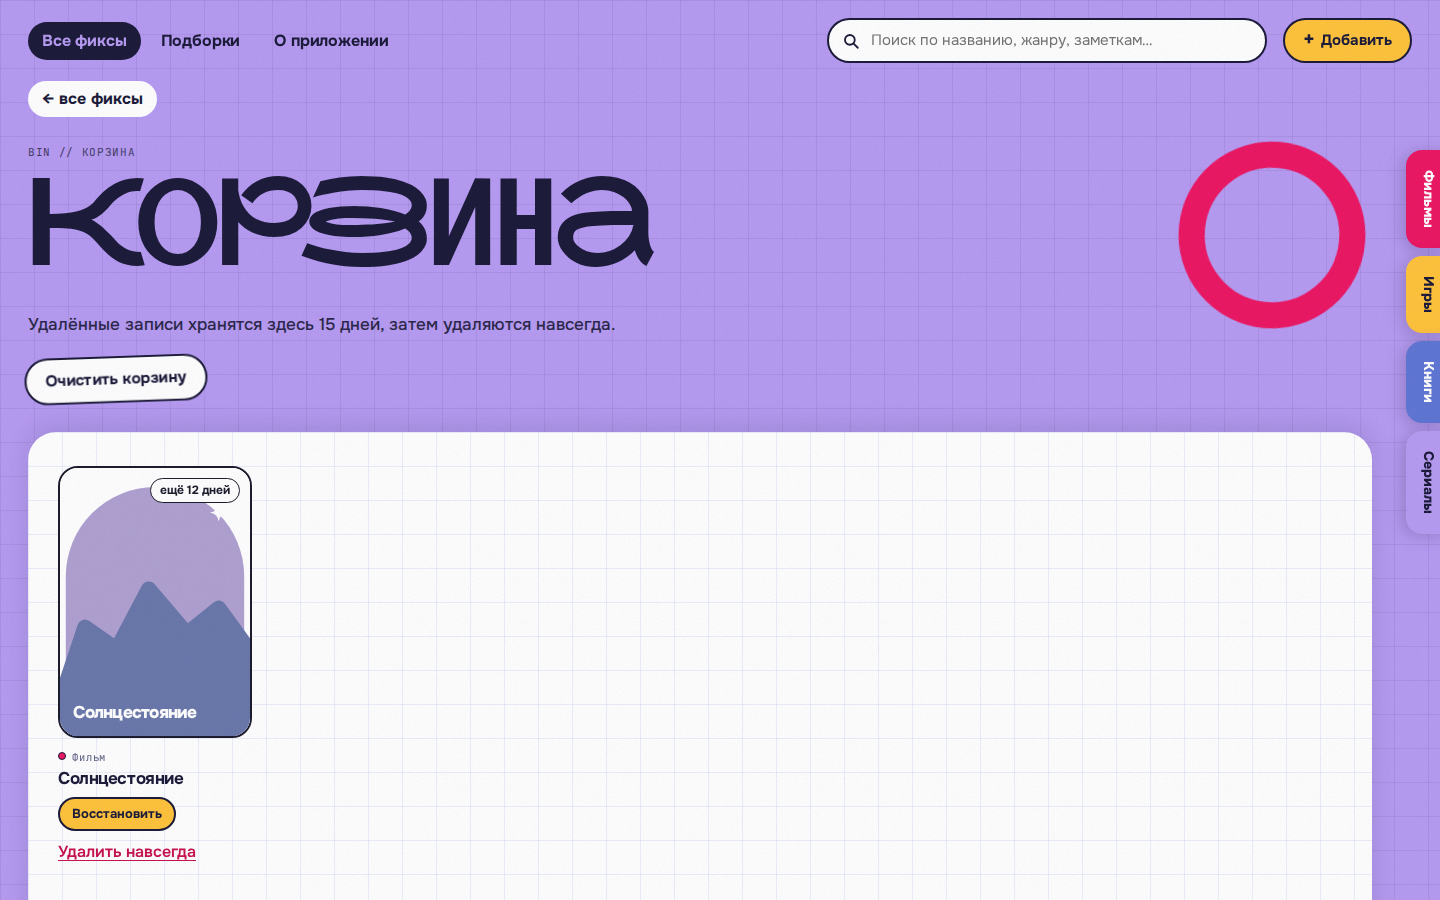
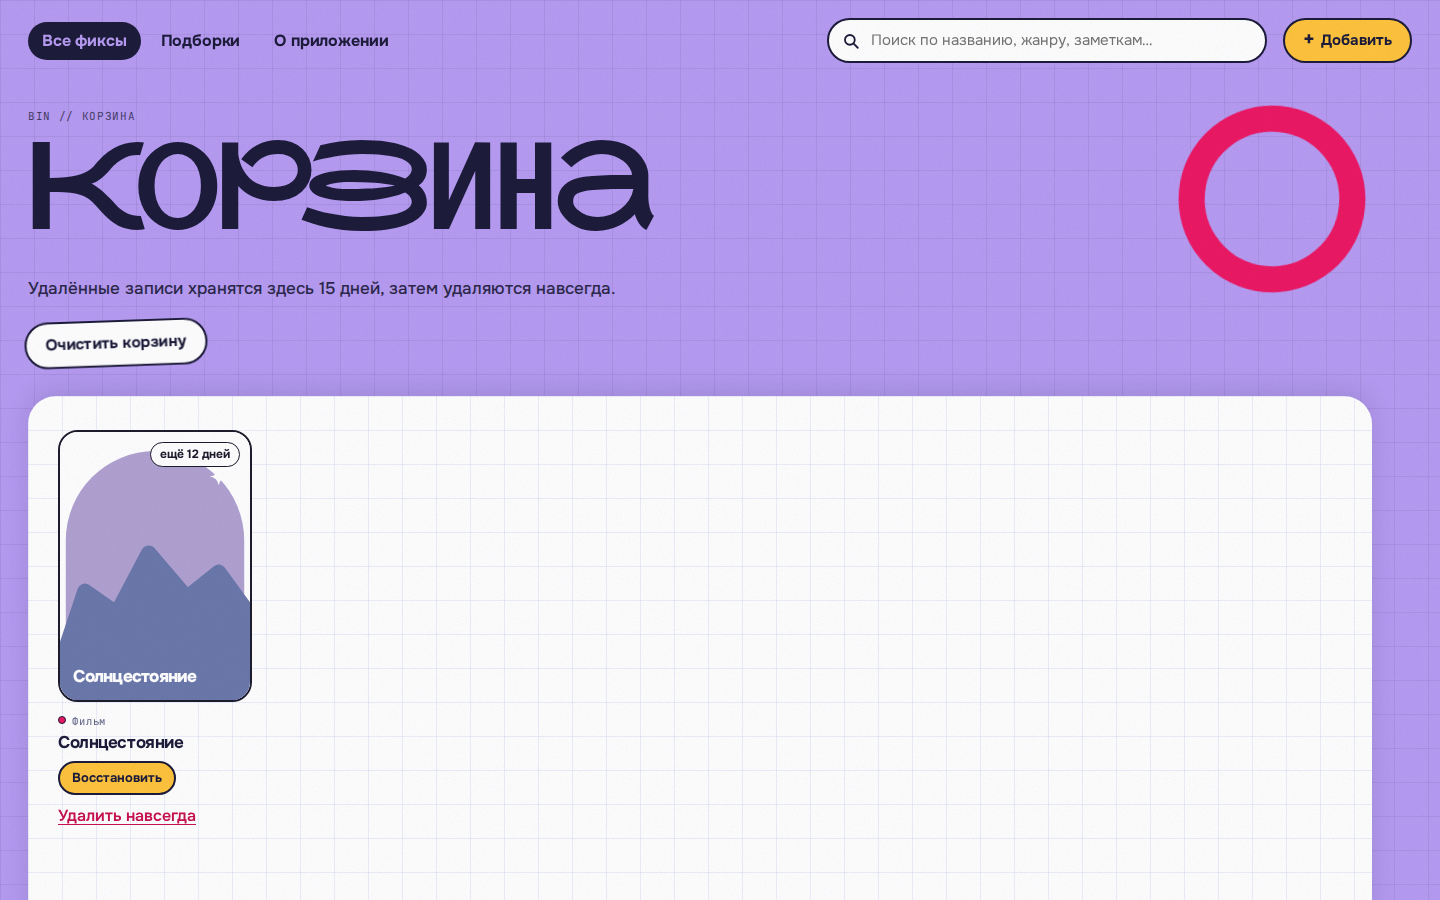
Навигация в два уровня: разделы в шапке, папки справа
Язычки справа показывают все четыре папки, язычок открытой выдвинут.
Кнопки «← все фиксы» и «← все подборки» убраны — их роль у шапки;
повторный клик по разделу в шапке возвращает к его началу. Язычки
папок остались только на страницах папок, на телефоне — рядом под шапкой.

Claude-Session: https://claude.ai/code/session_01PDBpM1BjsubR5k6YmRK1Ea

Changed region(s): [[0.0, 0.0622, 1.0, 0.9644], [0.9688, 0.4978, 1.0, 0.56]]

diff --git a/js/category.js b/js/category.js
@@ -18,10 +18,14 @@ window.Diary = window.Diary || {};
     return '--c:' + t.c + ';--fi:' + t.fi + ';--m:' + t.m;
   }
 
-  function sideTabsHtml(except) {
-    return '<nav class="side-tabs" aria-label="Другие папки">' +
-      Diary.CATEGORIES.filter(function (c) { return c !== except; }).map(function (c) {
-        return '<a class="side-tab" href="#/' + c + '" style="' + themeVars(c) + '">' + esc(Diary.CATEGORY_LABEL_PLURAL[c]) + '</a>';
+  // Язычки папок справа — навигация внутри «Всех фиксов». Показываем все четыре,
+  // язычок открытой папки выдвинут и сливается с фоном страницы.
+  function sideTabsHtml(current) {
+    return '<nav class="side-tabs" aria-label="Папки">' +
+      Diary.CATEGORIES.map(function (c) {
+        var on = c === current;
+        return '<a class="side-tab' + (on ? ' is-current' : '') + '" href="#/' + c + '" style="' + themeVars(c) + '"' +
+          (on ? ' aria-current="page"' : '') + '>' + esc(Diary.CATEGORY_LABEL_PLURAL[c]) + '</a>';
       }).join('') +
       '</nav>';
   }
@@ -44,10 +48,10 @@ window.Diary = window.Diary || {};
     }).join('');
     var sorts = [['date_desc', 'Сначала новые'], ['date_asc', 'Сначала старые'], ['rating_desc', 'По оценке'], ['title_asc', 'По названию А–Я']];
 
-    app.innerHTML = '' +
+    // Язычки идут первыми: на компьютере они закреплены справа, на телефоне — ряд под шапкой.
+    app.innerHTML = sideTabsHtml(cat) +
       '<section class="coll" style="' + themeVars(cat) + '">' +
       '<div class="coll-head">' +
-      '<a class="back" href="#/">← все фиксы</a>' +
       '<div class="coll-hero">' +
       '<div>' +
       '<div class="mono">' + t.code + '_0' + (Diary.CATEGORIES.indexOf(cat) + 1) + ' // папка</div>' +
@@ -71,8 +75,7 @@ window.Diary = window.Diary || {};
       '</div>' +
       '<nav class="status-tabs" data-status-tabs aria-label="Статус"></nav>' +
       '<div class="sheet"><div class="grid" data-grid></div></div>' +
-      '</section>' +
-      sideTabsHtml(cat);
+      '</section>';
 
     mounted = cat;
     update(app);

diff --git a/js/collections.js b/js/collections.js
@@ -40,7 +40,6 @@ window.Diary = window.Diary || {};
   function headHtml(opts) {
     return '' +
       '<div class="coll-head">' +
-      opts.back +
       '<div class="coll-hero">' +
       '<div>' +
       '<div class="mono">' + opts.code + '</div>' +
@@ -84,7 +83,6 @@ window.Diary = window.Diary || {};
     app.innerHTML = '' +
       '<section class="coll" style="' + pageVars() + '">' +
       headHtml({
-        back: '<a class="back" href="#/">← все фиксы</a>',
         code: 'SET_00 // подборки',
         title: 'Подборки',
         sub: collections.length + ' ' + utils.plural(collections.length, ['подборка', 'подборки', 'подборок']) + ' · записи из любых папок',
@@ -95,8 +93,7 @@ window.Diary = window.Diary || {};
           '</form>'
       }) +
       '<div class="sheet sheet--flat">' + body + '</div>' +
-      '</section>' +
-      Diary.category.sideTabsHtml(null);
+      '</section>';
 
     if (formOpen) app.querySelector('[data-col-form] input').focus();
   }
@@ -135,7 +132,6 @@ window.Diary = window.Diary || {};
     app.innerHTML = '' +
       '<section class="coll" style="' + pageVars() + '">' +
       headHtml({
-        back: '<button type="button" class="back" data-col-back>← все подборки</button>',
         code: 'SET // подборка',
         title: col.name,
         sub: countText(entries.length),
@@ -143,8 +139,7 @@ window.Diary = window.Diary || {};
           '<button type="button" class="btn btn--ghost" data-col-delete>Удалить подборку</button>'
       }) +
       '<div class="sheet sheet--flat">' + (pickerOpen ? pickerHtml(col) : '') + gridHtml + '</div>' +
-      '</section>' +
-      Diary.category.sideTabsHtml(null);
+      '</section>';
   }
 
   // ==================== PUBLIC ====================

diff --git a/css/styles.css b/css/styles.css
@@ -501,6 +501,9 @@ body[data-view="collection"] .mainnav a.is-active { background: var(--page-fi, v
   filter: drop-shadow(-4px 2px 8px var(--shadow));
 }
 .side-tab:hover { transform: translateX(0); }
+/* язычок открытой папки: выдвинут и того же цвета, что страница */
+.side-tab.is-current { transform: translateX(-14px); padding-left: 20px; padding-right: 20px; font-weight: 900; box-shadow: inset 0 0 0 2px color-mix(in srgb, var(--fi) 35%, transparent); }
+.side-tab.is-current:hover { transform: translateX(-14px); }
 
 /* ============ Модальное окно ============ */
 .modal {
@@ -940,8 +943,9 @@ body[data-view="collection"] .mainnav a.is-active { background: var(--page-fi, v
 
   .coll { padding: 0 var(--gutter); }
   .coll-hero { align-items: center; }
-  .side-tabs { position: static; flex-direction: row; gap: 6px; margin: 18px var(--gutter) 0; }
+  .side-tabs { position: static; flex-direction: row; flex-wrap: wrap; gap: 6px; margin: 4px var(--gutter) 18px; }
   .side-tab { writing-mode: horizontal-tb; border-radius: 14px; transform: none; padding: 9px 14px 10px; filter: none; }
+  .side-tab.is-current, .side-tab.is-current:hover { transform: none; padding: 9px 14px 10px; box-shadow: inset 0 0 0 2px var(--fi); }
   .status-tabs { padding-left: 14px; }
   .stab { padding: 11px 16px 18px; font-size: 14px; }
   .sheet { padding: 24px 16px 40px; border-radius: 22px 22px 0 0; }

diff --git a/js/app.js b/js/app.js
@@ -179,6 +179,16 @@ window.Diary = window.Diary || {};
 
     window.addEventListener('hashchange', function () { switchTab(tabFromHash()); });
 
+    // Клик по разделу, в котором уже находишься (например, «Подборки» изнутри
+    // подборки), возвращает к началу раздела — адрес при этом не меняется.
+    document.querySelector('.mainnav').addEventListener('click', function (ev) {
+      var link = ev.target.closest('[data-nav]');
+      if (!link || link.getAttribute('href') !== window.location.hash) return;
+      ev.preventDefault();
+      if (state.currentTab === 'collections') Diary.collections.reset();
+      switchTab(link.getAttribute('data-nav'));
+    });
+
     repo.onChange(function () {
       if (!repo.isReady()) return;
       renderCurrentTab();

diff --git a/js/search.js b/js/search.js
@@ -74,7 +74,6 @@ window.Diary = window.Diary || {};
     app.innerHTML = '' +
       '<section class="coll" style="--c:' + p.c + ';--fi:' + p.fi + '">' +
       '<div class="coll-head">' +
-      '<a class="back" href="#/">← все фиксы</a>' +
       '<div class="coll-hero">' +
       '<div>' +
       '<div class="mono">FIND // поиск</div>' +
@@ -92,8 +91,7 @@ window.Diary = window.Diary || {};
       '</div>' +
       '<nav class="status-tabs" data-search-tabs aria-label="Папка"></nav>' +
       '<div class="sheet"><div data-search-results></div></div>' +
-      '</section>' +
-      Diary.category.sideTabsHtml(null);
+      '</section>';
     mounted = true;
     update(app);
   }

diff --git a/js/trash.js b/js/trash.js
@@ -63,7 +63,6 @@ window.Diary = window.Diary || {};
     app.innerHTML = '' +
       '<section class="coll" style="--c:' + p.c + ';--fi:' + p.fi + '">' +
       '<div class="coll-head">' +
-      '<a class="back" href="#/">← все фиксы</a>' +
       '<div class="coll-hero">' +
       '<div>' +
       '<div class="mono">BIN // корзина</div>' +
@@ -77,8 +76,7 @@ window.Diary = window.Diary || {};
       '</div>' +
       '</div>' +
       '<div class="sheet sheet--flat">' + body + '</div>' +
-      '</section>' +
-      Diary.category.sideTabsHtml(null);
+      '</section>';
   }
 
   Diary.trash = { setup: setup, render: render };

diff --git a/js/about.js b/js/about.js
@@ -16,7 +16,6 @@ window.Diary = window.Diary || {};
     app.innerHTML = '' +
       '<section class="coll" style="--c:' + p.c + ';--fi:' + p.fi + '">' +
       '<div class="coll-head">' +
-      '<a class="back" href="#/">← все фиксы</a>' +
       '<div class="coll-hero">' +
       '<div>' +
       '<div class="mono">INFO // о приложении</div>' +
